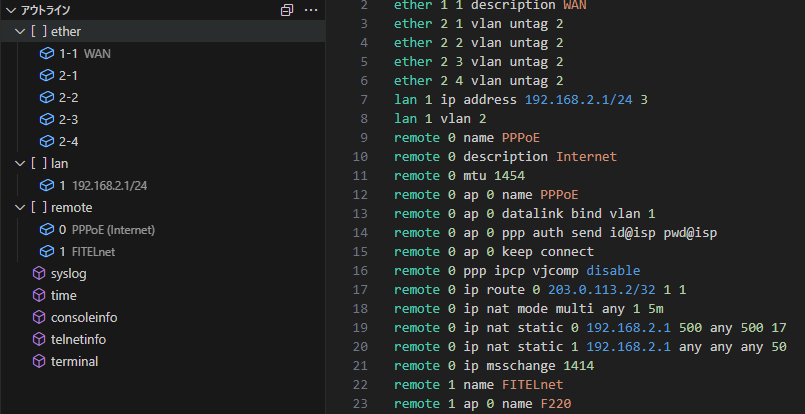
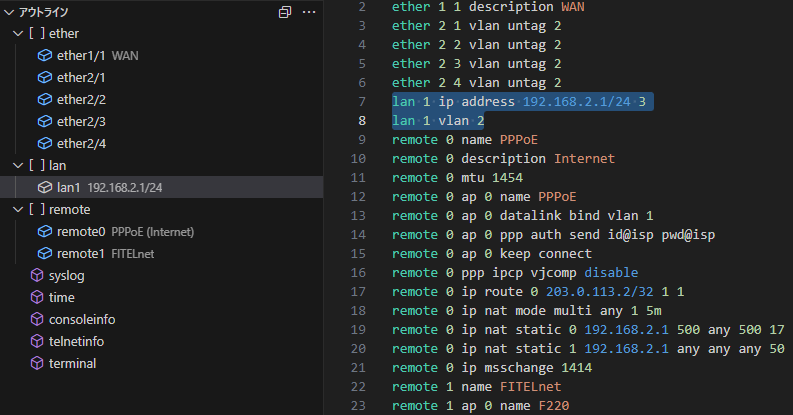
doc: release for ver. 0.1.1

diff --git a/CHANGELOG.md b/CHANGELOG.md
@@ -1,12 +1,14 @@
 # Change Log
 
-## [Unreleased]
+## [0.1.1] 2024-08-09
 
 ### Added
 
 - アウトラインでの配列表示対応コマンドを追加
 
 ### Changed
+
+- シンボル名の表示内容を変更
 - シンタックスを更新
   - 入力不可な文字を色付け
   - 文字列のパターン修正
